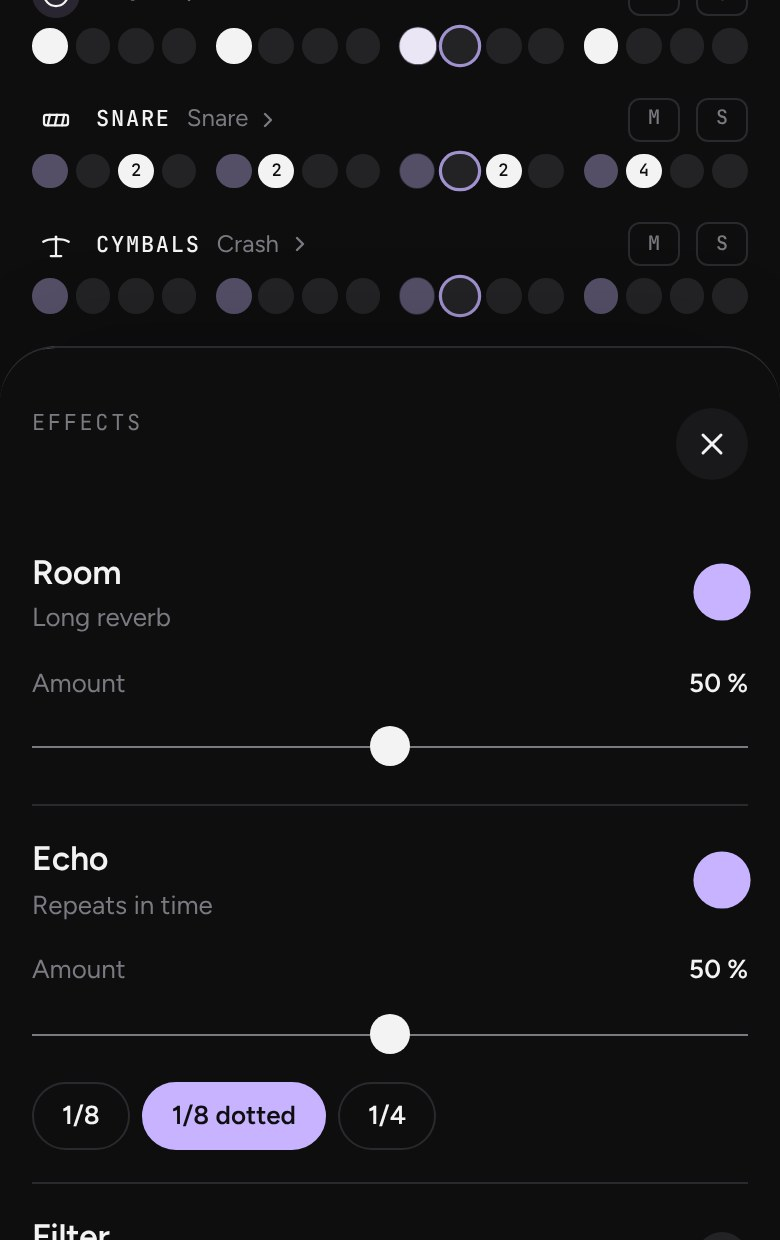
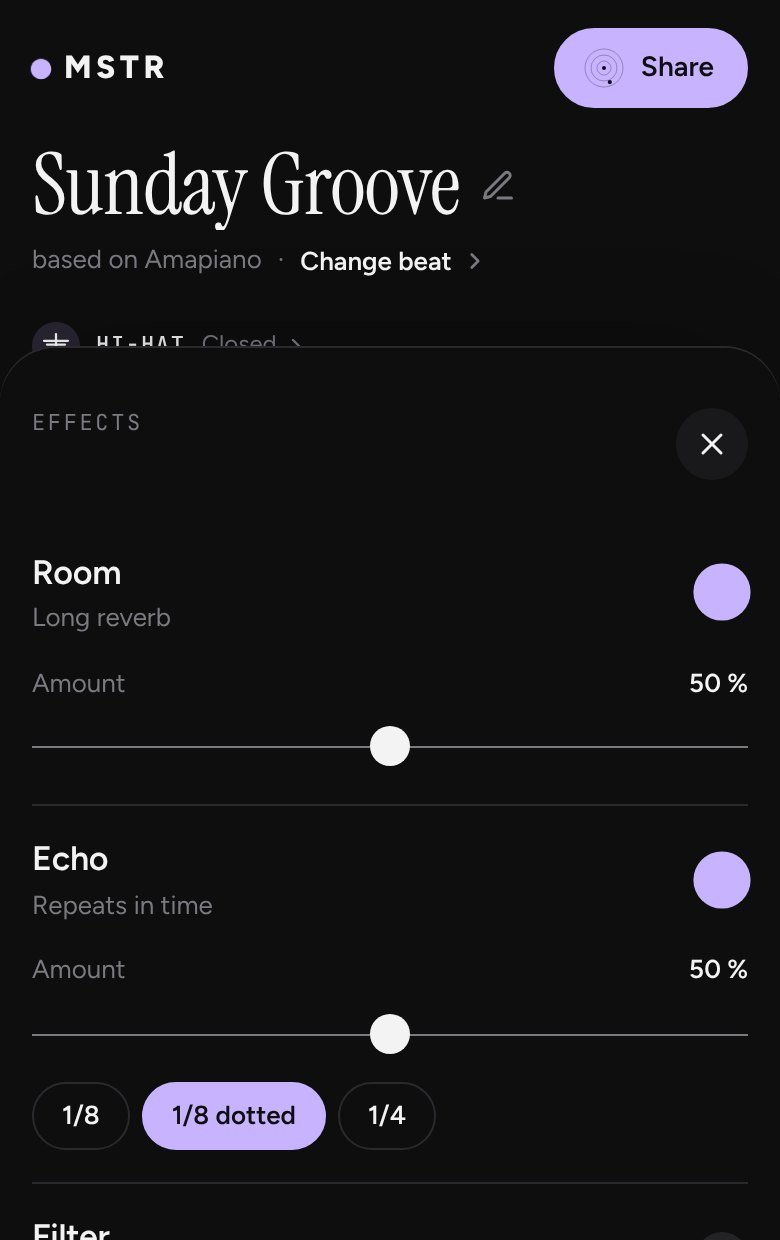
MSTR: app copy after mstr PR #30 (one Share button, leaner grid), previews re-shot
Copies the built app (Share button top right with live mini orbit, back
arrow in the Orbit, Change beat line, describe field in the beat list,
link and WAV visible in the Orbit) into mstr/app/index.html, re-shoots
vorschau-1, -2, -4 and -5 at 390x620 @2x and updates the tour copy and
alt texts.

Claude-Session: https://claude.ai/code/session_01WCtGHXdqNMZgkMLakytpzG

diff --git a/mstr/app/index.html b/mstr/app/index.html
@@ -50,25 +50,31 @@ button:focus-visible,input:focus-visible{outline:2px solid var(--accent);outline
 
 .head{display:flex;flex-direction:column;gap:4px}
 .preset{margin:0;cursor:pointer;display:flex;align-items:center;gap:10px;min-width:0;font-family:var(--f-ed);font-size:clamp(42px,11vw,60px);font-weight:400;letter-spacing:-.01em;line-height:1}
-/* Beat wählen: gefüllter runder Knopf direkt neben dem Namen (im Dunkelmodus Weiß) */
+/* Share: der einzige farbige Knopf im Kopf, beim Spielen läuft darin ein winziger Orbit mit */
+.pill.share{background:var(--accent);color:var(--on-accent);border-color:var(--accent);height:40px;padding:0 16px 0 13px;font-size:14px;gap:7px}
+.pill.share svg{width:18px;height:18px}
+#miniOrb{width:22px;height:22px;display:none}
+.app.live #miniOrb{display:block}
+.app.live .pill.share .shi{display:none}
 .prow{display:flex;align-items:center;gap:14px}
 /* Stift: zeigt, dass der Titel antippbar ist */
 .preset .pen{width:18px;height:18px;flex:none;color:var(--mute)}
 .preset #preTxt{min-width:0;overflow:hidden;text-overflow:ellipsis;white-space:nowrap}
-.ib.pick{width:44px;height:44px;background:var(--ink);color:var(--bg)}
-.ib.pick svg{width:20px;height:20px}
-/* Beat beschreiben: Sprechblase links neben der Beat-Wahl, das Feld kommt von oben */
-.prow .ib.say{width:44px;height:44px;flex:none;margin-left:-6px}
-.prow .ib.say svg{width:21px;height:21px}
+/* Textknöpfe: „Change beat“ unter dem Titel, Link und WAV im Orbit */
+.lnk{border:0;background:none;padding:4px 0;font:600 13px var(--f-ui);color:var(--ink);display:inline-flex;align-items:center;gap:5px;cursor:pointer}
+.lnk svg{width:13px;height:13px;flex:none;color:var(--mute)}
+/* Beat beschreiben: das Feld steht oben in der Beat-Liste */
 .sayf{display:flex;gap:10px;align-items:flex-end}
 .sayf textarea{flex:1;min-width:0;min-height:64px;resize:none;border-radius:14px;border:1px solid var(--line);background:var(--soft);color:var(--ink);padding:14px 16px;font-family:var(--f-ed);font-size:24px;line-height:1.15;outline:none;caret-color:var(--accent)}
 .sayf textarea:focus{border-color:var(--accent);box-shadow:0 0 0 3px color-mix(in srgb,var(--accent) 35%,transparent)}
 .sayf textarea::placeholder{color:var(--mute)}
 .sayf .ib.go{width:52px;height:52px;flex:none;background:var(--accent);color:var(--on-accent)}
 .sayf .ib.go svg{width:22px;height:22px}
-.sub:empty{display:none}
 .pill svg{width:17px;height:17px;flex:none}
-.sub{margin:0;font-size:13px;color:var(--mute)}
+.sub{margin:0;font-size:13px;color:var(--mute);display:flex;align-items:center;gap:8px;min-height:24px}
+#sub:empty{display:none}
+#sub:not(:empty)::after{content:"·";margin-left:8px}
+.shnote.left{text-align:left}
 
 /* Raster: Name-Zeile über 16 Punkten; ab 640 px Name links */
 .tracks{display:flex;flex-direction:column;gap:clamp(12px,2.6vh,24px)}
@@ -78,8 +84,6 @@ button:focus-visible,input:focus-visible{outline:2px solid var(--accent);outline
 .tn .nm{white-space:nowrap;font-family:var(--f-mono);font-size:11px;letter-spacing:.08em;text-transform:uppercase;font-weight:500}
 .tn .tb{font-size:12px;color:var(--mute);white-space:nowrap;overflow:hidden;text-overflow:ellipsis}
 .tn .go{width:12px;height:12px;color:var(--mute);flex:none;align-self:center;margin-left:-4px}
-.ms{width:26px;height:22px;border-radius:6px;border:1px solid var(--line);background:transparent;font-family:var(--f-mono);font-size:10px;font-weight:500;cursor:pointer;color:var(--mute);padding:0;flex:none}
-.ms[aria-pressed="true"]{background:var(--accent);color:var(--on-accent);border-color:var(--accent)}
 .trk.quiet .steps{opacity:.28}
 /* Die eigene Spur Aufnahme steht etwas abgesetzt unter den eingebauten */
 .trk.own{border-top:1px solid var(--line);padding-top:clamp(12px,2.6vh,24px)}
@@ -121,17 +125,14 @@ button:focus-visible,input:focus-visible{outline:2px solid var(--accent);outline
 #drop.on svg path{fill:currentColor}
 #drop.on{background:var(--accent);color:var(--on-accent);border-color:var(--accent)}
 .app.building #drop{animation:pulse .25s ease-in-out infinite alternate}
-#fxBtn{height:44px;padding:0 12px 0 10px;gap:6px;font-variant-numeric:tabular-nums}
-#share{width:44px;height:44px;padding:0;flex:none}
-#share svg{width:19px;height:19px}
-/* Schmale Handys: Platz für Teilen in der Leiste, der Pfeil am Tempo entfällt (die Zahl selbst öffnet das Blatt) */
-/* Handys: Effects und Drop nur als Symbol (Effects mit Zahl, wenn Effekte an sind), damit Teilen und Tempo Luft haben */
-@media (max-width:430px){.transport .fxl{display:none}#fxBtn,#drop{min-width:44px;padding:0 12px;justify-content:center;gap:4px}#drop{width:44px;padding:0}#fxBtn.on{padding:0 14px 0 12px}}
-@media (max-width:380px){.tempo .chev{display:none}}
+#fxBtn{height:44px;padding:0 14px 0 12px;gap:6px;font-variant-numeric:tabular-nums}
+/* Effects und Drop tragen ihr Wort; erst auf sehr schmalen Handys bleibt nur das Symbol, die Swing-Zeile fällt am Handy weg */
+@media (max-width:479px){.swt{display:none}}
+@media (max-width:399px){.transport{gap:6px}.tempo .big{font-size:36px}#fxBtn,#drop{padding:0 11px 0 10px;gap:5px}}
+@media (max-width:359px){.transport .fxl{display:none}#fxBtn,#drop{min-width:44px;padding:0 12px;justify-content:center;gap:4px}#drop{width:44px;padding:0}#fxBtn.on{padding:0 14px 0 12px}}
 #fxBtn.on{background:var(--accent);color:var(--on-accent);border-color:var(--accent)}
 .tempo{margin-left:auto;border:0;background:none;cursor:pointer;display:flex;align-items:center;gap:8px;padding:4px 0;line-height:1}
 .tv{display:flex;flex-direction:column;align-items:flex-end;gap:6px}
-.tempo .chev{width:30px;height:30px;padding:6px;border-radius:50%;background:var(--soft);color:var(--ink);flex:none}
 .big{font-weight:700;letter-spacing:-.04em;line-height:1;font-variant-numeric:tabular-nums;font-size:32px}
 .big small{font-size:.42em;color:var(--mute);font-weight:600;letter-spacing:0;margin-left:2px}
 .swt{font-family:var(--f-mono);font-size:10px;letter-spacing:.12em;text-transform:uppercase;color:var(--mute)}
@@ -218,6 +219,7 @@ input[type=range]::-moz-range-thumb{width:20px;height:20px;border-radius:50%;bac
 .fxi i{width:26px;height:26px;border-radius:50%;background:var(--off);flex:none;transition:background .15s,transform .15s}
 .fxi[aria-pressed="true"] i{background:var(--accent);transform:scale(1.1)}
 .seg2{display:grid;grid-template-columns:1fr 1fr;gap:6px}
+.seg2.three{grid-template-columns:repeat(3,1fr)}
 .seg2 button{height:42px;border-radius:999px;border:1px solid var(--line);background:transparent;font-size:13px;font-weight:600;cursor:pointer;color:var(--mute)}
 .seg2 button[aria-pressed="true"]{background:var(--accent);color:var(--on-accent);border-color:var(--accent)}
 .seg2.sm{flex:1}
@@ -273,11 +275,12 @@ input[type=range]::-moz-range-thumb{width:20px;height:20px;border-radius:50%;bac
 .mol{display:block;width:100%;flex:1 1 0;min-height:220px;border-radius:24px;cursor:pointer;touch-action:pan-y;-webkit-tap-highlight-color:transparent}
 .mol:focus-visible{outline:2px solid var(--accent);outline-offset:4px}
 .app.molecule .tracks,.app.molecule .beatrow{display:none}
-/* Umschalter oben: Grid zum Bauen, Orbit zum Zusehen und Teilen */
-.seg{display:flex;background:var(--soft);border-radius:999px;padding:3px;gap:2px}
-.seg button{height:30px;padding:0 14px;border-radius:999px;border:0;background:none;color:var(--mute);font:600 13px var(--f-ui);cursor:pointer}
-.seg button[aria-pressed="true"]{background:var(--ink);color:var(--bg)}
+/* Im Orbit: Pfeil zurück links, die Marke bleibt in der Mitte (rechts ein gleich breiter Platzhalter) */
+.app.molecule .topr{width:36px}
 .cardfoot{display:flex;gap:8px;align-items:center}
+.cardlinks{display:flex;justify-content:center;gap:26px;margin-top:-6px}
+.cardlinks .lnk{font-size:14px}
+.cardlinks .lnk svg{width:15px;height:15px}
 /* Farbwahl im Orbit: fünf Punkte, der gewählte trägt einen Ring; die Orbit-Farbe färbt dort auch den Video-Knopf */
 /* Zurückhaltend wie die App: kleine graue Punkte, nur der gewählte trägt seine Farbe; die Tipp-Fläche bleibt groß */
 .hue{display:flex;justify-content:flex-start;gap:2px;height:0;position:relative;z-index:1}
@@ -290,7 +293,6 @@ input[type=range]::-moz-range-thumb{width:20px;height:20px;border-radius:50%;bac
 .cardfoot .pill{flex:1;width:auto}
 .cardfoot .ib{width:48px;height:48px}
 .app.molecule .head{display:none}
-.app.molecule #theme{display:none}
 /* In der Karte gibt es keine Leiste: Tipp auf den Ring spielt und stoppt, Tipp auf den Titel benennt */
 .app.molecule .transport{display:none}
 /* Orbit füllt genau den sichtbaren Bereich, nichts rutscht unter die Safari-Leiste; Play und Effekte stehen in der Reihe beim Knopf */
@@ -300,8 +302,7 @@ input[type=range]::-moz-range-thumb{width:20px;height:20px;border-radius:50%;bac
 .cardfoot #fxBtn{flex:none;height:48px;min-width:48px;width:48px;padding:0;border-radius:50%;justify-content:center;gap:4px}
 .cardfoot #fxBtn .fxl{display:none}
 .cardfoot #fxBtn.on{width:auto;padding:0 14px 0 12px;border-radius:999px}
-#shCardT{min-height:2.7em;padding-bottom:max(10px,env(safe-area-inset-bottom,0px))}
-#shCardT{margin-top:-8px;line-height:1.35}
+#shCardT{min-height:2.7em;padding-bottom:max(10px,env(safe-area-inset-bottom,0px));margin-top:-10px;line-height:1.35}
 /* Video entsteht: der Knopf füllt sich von links mit dem Fortschritt (--p 0..1) */
 .pill.go.gen,.pill.go.gen:disabled{opacity:1;color:var(--ink);border-color:transparent;background:linear-gradient(90deg,color-mix(in srgb,var(--accent) 60%,var(--bg)) calc(var(--p,0) * 100%),color-mix(in srgb,var(--accent) 18%,var(--bg)) calc(var(--p,0) * 100%));transition:background .2s linear}
 </style>
@@ -309,27 +310,26 @@ input[type=range]::-moz-range-thumb{width:20px;height:20px;border-radius:50%;bac
 <body>
 <div class="app" id="app">
   <header class="top">
+    <button type="button" class="ib" id="vGrid" hidden aria-label="Back to the grid"><svg viewBox="0 0 24 24" aria-hidden="true"><path d="M15 5l-7 7 7 7" fill="none" stroke="currentColor" stroke-width="2.2" stroke-linecap="round" stroke-linejoin="round"/></svg></button>
     <span class="mark"><i aria-hidden="true"></i>MSTR</span>
-    <div class="topr">
-      <div class="seg" id="view" role="group" aria-label="View"><button type="button" id="vGrid" aria-pressed="true">Grid</button><button type="button" id="vCard" aria-pressed="false">Orbit</button></div>
-      <button type="button" class="ib" id="theme" aria-label="Theme"><svg viewBox="0 0 24 24" aria-hidden="true"><circle cx="12" cy="12" r="8" fill="none" stroke="currentColor" stroke-width="2"/><path d="M12 4a8 8 0 0 1 0 16z" fill="currentColor"/></svg></button>
-    </div>
+    <div class="topr"><button type="button" class="pill share" id="vCard" aria-label="Share: your beat as an orbit, video and link"><canvas id="miniOrb" width="44" height="44" aria-hidden="true"></canvas><svg class="shi" viewBox="0 0 24 24" aria-hidden="true"><path d="M12 15V4M8 8l4-4 4 4M5 13v6h14v-6" fill="none" stroke="currentColor" stroke-width="2.2" stroke-linecap="round" stroke-linejoin="round"/></svg><span>Share</span></button></div>
   </header>
   <div class="head">
-    <div class="prow"><h1 class="preset" id="preName" title="Name your beat"><span id="preTxt">Amapiano</span><svg class="pen" viewBox="0 0 24 24" aria-hidden="true"><path d="M12 20h9M16.5 3.5a2.1 2.1 0 0 1 3 3L7 19l-4 1 1-4Z" fill="none" stroke="currentColor" stroke-width="2" stroke-linecap="round" stroke-linejoin="round"/></svg></h1><button type="button" class="ib pick" id="preBtn" aria-haspopup="dialog" aria-label="Choose beat" title="Choose beat"><svg viewBox="0 0 24 24" aria-hidden="true"><path d="M4 7h16M4 12h16M4 17h10" fill="none" stroke="currentColor" stroke-width="2.2" stroke-linecap="round"/></svg></button><button type="button" class="ib say" id="sayBtn" aria-haspopup="dialog" aria-label="Describe a beat" title="Describe a beat"><svg viewBox="0 0 24 24" aria-hidden="true"><path d="M5 5h14a1.5 1.5 0 0 1 1.5 1.5v9A1.5 1.5 0 0 1 19 17h-8l-4.5 3.5V17H5a1.5 1.5 0 0 1-1.5-1.5v-9A1.5 1.5 0 0 1 5 5Z" fill="none" stroke="currentColor" stroke-width="2" stroke-linejoin="round"/><path d="M8 9.5h8M8 12.8h5" fill="none" stroke="currentColor" stroke-width="2" stroke-linecap="round"/></svg></button></div>
-    <p class="sub" id="sub"></p>
+    <div class="prow"><h1 class="preset" id="preName" title="Name your beat"><span id="preTxt">Amapiano</span><svg class="pen" viewBox="0 0 24 24" aria-hidden="true"><path d="M12 20h9M16.5 3.5a2.1 2.1 0 0 1 3 3L7 19l-4 1 1-4Z" fill="none" stroke="currentColor" stroke-width="2" stroke-linecap="round" stroke-linejoin="round"/></svg></h1></div>
+    <p class="sub"><span id="sub"></span><button type="button" class="lnk" id="preBtn" aria-haspopup="dialog">Change beat<svg viewBox="0 0 24 24" aria-hidden="true"><path d="M9 6l6 6-6 6" fill="none" stroke="currentColor" stroke-width="2.4" stroke-linecap="round" stroke-linejoin="round"/></svg></button></p>
   </div>
   <main class="tracks" id="tracks" aria-label="Tracks"></main>
   <canvas class="mol" id="mol" hidden aria-label="Your beat as an orbit. Tap the ring to play or stop, tap the title to name it, swipe sideways to change the colour" role="button" tabindex="0"></canvas>
   <div class="hue" id="hue" hidden role="radiogroup" aria-label="Orbit colour"></div>
-  <div class="cardfoot" id="cardfoot" hidden><button type="button" class="pill wide go" id="shCardBtn">Share video</button><button type="button" class="ib" id="more" aria-haspopup="dialog" aria-label="Link and WAV loop" title="Link and WAV loop"><svg viewBox="0 0 24 24" aria-hidden="true"><circle cx="5" cy="12" r="2" fill="currentColor"/><circle cx="12" cy="12" r="2" fill="currentColor"/><circle cx="19" cy="12" r="2" fill="currentColor"/></svg></button></div>
+  <div class="cardfoot" id="cardfoot" hidden><button type="button" class="pill wide go" id="shCardBtn">Share video</button></div>
+  <div class="cardlinks" id="cardlinks" hidden><button type="button" class="lnk" id="shSend"><svg viewBox="0 0 24 24" aria-hidden="true"><path d="M10 14a4 4 0 0 0 5.7 0l3-3a4 4 0 0 0-5.7-5.7l-1 1M14 10a4 4 0 0 0-5.7 0l-3 3a4 4 0 0 0 5.7 5.7l1-1" fill="none" stroke="currentColor" stroke-width="2" stroke-linecap="round"/></svg><span>Copy link</span></button><button type="button" class="lnk" id="shWav"><svg viewBox="0 0 24 24" aria-hidden="true"><path d="M12 4v11M8 11l4 4 4-4M5 19h14" fill="none" stroke="currentColor" stroke-width="2" stroke-linecap="round" stroke-linejoin="round"/></svg><span>Download WAV</span></button></div>
   <p class="shnote" id="shCardT" hidden></p>
   <div class="trk beatrow" aria-hidden="true"><div class="tl"></div><div class="steps"><div class="grp"><span>1</span><span></span><span></span><span></span></div><div class="grp"><span>2</span><span></span><span></span><span></span></div><div class="grp"><span>3</span><span></span><span></span><span></span></div><div class="grp"><span>4</span><span></span><span></span><span></span></div></div></div>
   <footer class="transport">
     <button type="button" class="play" id="play" aria-label="Play (Space)"></button>
     <button type="button" class="pill" id="fxBtn" aria-haspopup="dialog" aria-label="Effects"><svg viewBox="0 0 24 24" aria-hidden="true"><path d="M4 7h9M17 7h3M4 17h3M11 17h9" fill="none" stroke="currentColor" stroke-width="2" stroke-linecap="round"/><circle cx="15" cy="7" r="2.2" fill="none" stroke="currentColor" stroke-width="2"/><circle cx="9" cy="17" r="2.2" fill="none" stroke="currentColor" stroke-width="2"/></svg><span class="fxl">Effects</span><span class="fxn" id="fxN"></span></button>
     <button type="button" class="pill" id="drop" aria-label="Drop"><svg viewBox="0 0 24 24" aria-hidden="true"><path d="M13.5 2.5L5 13.5h6l-1.5 8 8.5-11h-6z" fill="none" stroke="currentColor" stroke-width="2" stroke-linejoin="round"/></svg><span class="fxl">Drop</span></button>
-    <button type="button" class="tempo" id="tempoBtn" aria-haspopup="dialog" aria-label="Tempo and swing"><span class="tv"><span class="swt" id="swTxt">Swing 0 %</span><span class="big"><span id="bpm">100</span><small>bpm</small></span></span><svg class="chev" viewBox="0 0 24 24" aria-hidden="true"><path d="M6 15l6-6 6 6" fill="none" stroke="currentColor" stroke-width="2.2" stroke-linecap="round" stroke-linejoin="round"/></svg></button>
+    <button type="button" class="tempo" id="tempoBtn" aria-haspopup="dialog" aria-label="Tempo and swing"><span class="tv"><span class="swt" id="swTxt">Swing 0 %</span><span class="big"><span id="bpm">100</span><small>bpm</small></span></span></button>
   </footer>
 </div>
 <section class="sheet" id="sheet" aria-labelledby="sheetT" hidden></section>
@@ -1153,9 +1153,6 @@ var WORTE=(function(){
       tn.setAttribute('aria-label',T.n+': Einstellungen');
       tn.addEventListener('click',function(){trackSheet(r);});
       tl.appendChild(tn);
-      ['M','S'].forEach(function(k){var b=document.createElement('button');b.type='button';b.className='ms '+k.toLowerCase();b.textContent=k;
-        b.setAttribute('aria-label',(k==='M'?'Mute: ':'Solo: ')+T.n);
-        b.addEventListener('click',function(){if(k==='M')mute[r]=!mute[r];else solo[r]=!solo[r];paint();persist();});tl.appendChild(b);});
       row.appendChild(tl);
       var steps=document.createElement('div');steps.className='steps';cells.push([]);
       for(var g=0;g<4;g++){var grp=document.createElement('div');grp.className='grp';
@@ -1218,8 +1215,6 @@ var WORTE=(function(){
         b.classList.toggle('on',on);b.setAttribute('aria-pressed',on?'true':'false');
         b.textContent=on&&multi&&(T.id==='click'||k>0)?(T.id==='click'?w:String(k+1)):'';}
       rows[r].classList.toggle('quiet',!audible(r));
-      rows[r].querySelector('.ms.m').setAttribute('aria-pressed',mute[r]?'true':'false');
-      rows[r].querySelector('.ms.s').setAttribute('aria-pressed',solo[r]?'true':'false');
       rows[r].querySelector('.tb').textContent=r===MIC&&!REC.mic?'Record your own sound':multi?T.s[sndIx(r,brush[r])][1]:'';
     }
     app.classList.toggle('solo',so);
@@ -1235,12 +1230,21 @@ var WORTE=(function(){
   function head(s,b){
     var r;
     if(shown>=0)for(r=0;r<R;r++)cells[r][shown].classList.remove('ph');
-    shown=s;if(s>=0)molHit(s,b);
+    shown=s;if(s>=0){molHit(s,b);miniDraw(s);}
     if(s>=0)for(r=0;r<R;r++){cells[r][s].classList.add('ph');if(pat[r].charAt(s)!=='0'&&audible(r)&&!drop)flash(r);}
     /* Taktzähler und Fortschrittslinie folgen dem laufenden Schritt */
     for(r=0;r<beats.length;r++)beats[r].classList.toggle('cur',s>=0&&r===Math.floor(s/4));
     app.style.setProperty('--prog',s<0?0:(s+1)/N);
   }
+  /* Winziger Orbit im Share-Knopf: läuft beim Spielen mit (je Schritt ein Bild), zeigt, wohin der Beat am Ende geht */
+  var mo=$('miniOrb'),mx=mo.getContext('2d');
+  function miniDraw(s){var W=mo.width,c=W/2,r,k;mx.clearRect(0,0,W,W);
+    mx.strokeStyle='rgba(15,15,16,.28)';mx.lineWidth=1;
+    for(k=0;k<3;k++){mx.beginPath();mx.arc(c,c,7+k*6,0,Math.PI*2);mx.stroke();}
+    mx.fillStyle='#0F0F10';
+    for(r=0;r<7;r++){if(pat[r].charAt(s)==='0'||!audible(r))continue;var a=s/N*Math.PI*2-Math.PI/2,rad=6+r*2.3,d=r===1?3:2.1;
+      mx.beginPath();mx.arc(c+Math.cos(a)*rad,c+Math.sin(a)*rad,d,0,Math.PI*2);mx.fill();}
+    mx.beginPath();mx.arc(c,c,2,0,Math.PI*2);mx.fill();}
   /* Das Spur-Icon blinkt kurz in Flieder, wenn die Spur klingt */
   function flash(r){var ic=rows[r].querySelector('.ic');ic.classList.remove('hit');void ic.offsetWidth;ic.classList.add('hit');clearTimeout(ic._t);ic._t=setTimeout(function(){ic.classList.remove('hit');},140);}
   function loop(){
@@ -1360,7 +1364,20 @@ var WORTE=(function(){
   var X='',XB='<button type="button" class="ib" data-close aria-label="Close"><svg viewBox="0 0 24 24" aria-hidden="true"><path d="M6 6l12 12M18 6L6 18" fill="none" stroke="currentColor" stroke-width="2" stroke-linecap="round"/></svg></button>';
   function presetSheet(){
     var order=BEATS.map(function(b,i){return i;}).sort(function(a,b){return BEATS[a].bpm-BEATS[b].bpm||a-b;});
-    openSheet('<div class="sh-top"><h2 class="ed" id="sheetT">'+BEATS.length+' beats<br><em>by tempo</em></h2>'+X+'</div><div class="plist" role="listbox" aria-label="Beats"></div><a class="lab" href="https://asimplemanslab.com/" aria-label="Made with love by A Simple Man\u2019s Lab"><span>Made with love by</span><i aria-hidden="true"></i></a>',function(el){
+    openSheet('<div class="sh-top"><span class="eyebrow" id="sheetT">Describe a beat</span></div>'+
+      '<form class="sayf" autocomplete="off"><textarea id="sayIn" rows="2" maxlength="200" enterkeyhint="send" aria-labelledby="sheetT"></textarea>'+
+      '<button type="submit" class="ib go" id="sayGo" aria-label="Make the beat" title="Make the beat"><svg viewBox="0 0 24 24" aria-hidden="true"><path d="M5 12h13M13 6l6 6-6 6" fill="none" stroke="currentColor" stroke-width="2.2" stroke-linecap="round" stroke-linejoin="round"/></svg></button></form>'+
+      '<p class="shnote left">Style, mood, tempo, sounds, effects. In your own words, English or German.</p>'+
+      '<h2 class="ed">or pick one<br><em>'+BEATS.length+' beats by tempo</em></h2><div class="plist" role="listbox" aria-label="Beats"></div>'+
+      '<div class="field"><span class="lbl">Theme</span><div class="seg2 three" id="themeSeg"><button type="button" data-t="system">System</button><button type="button" data-t="light">Light</button><button type="button" data-t="dark">Dark</button></div></div>'+
+      '<a class="lab" href="https://asimplemanslab.com/" aria-label="Made with love by A Simple Man\u2019s Lab"><span>Made with love by</span><i aria-hidden="true"></i></a>',function(el){
+      var inp=el.querySelector('#sayIn'),f=el.querySelector('form');
+      inp.value=typeof S.say==='string'?S.say:'';inp.placeholder=SAY[Math.floor(Math.random()*SAY.length)];
+      function go(){var v=inp.value.trim()||inp.placeholder;S.say=inp.value.trim();save();closeSheet();sayBeat(v);}
+      f.addEventListener('submit',function(e){e.preventDefault();go();});
+      inp.addEventListener('keydown',function(e){if(e.key==='Enter'&&!e.shiftKey){e.preventDefault();go();}});
+      el.querySelectorAll('#themeSeg button').forEach(function(b){b.addEventListener('click',function(){S.theme=b.dataset.t;save();themeUI();});});
+      themeUI();
       var list=el.querySelector('.plist'),e=document.createElement('button');e.type='button';e.id='clr';e.className='pitem'+(pre<0&&pat.slice(0,7).join('')===empty().slice(0,7).join('')?' sel':'');e.setAttribute('role','option');
       e.innerHTML='<span class="n">Empty grid</span><span class="v">'+bpm+'<small>BPM</small></span>';e.addEventListener('click',function(){clearAll();closeSheet();});list.appendChild(e);
       order.forEach(function(i){var Bt=BEATS[i],b=document.createElement('button');b.type='button';b.className='pitem'+(i===pre?' sel':'');b.setAttribute('role','option');b.setAttribute('aria-selected',i===pre?'true':'false');
@@ -1387,19 +1404,6 @@ var WORTE=(function(){
     showToast('New beat','Undo',function(){restore(before);});
     return true;
   }
-  function saySheet(){
-    openSheet('<div class="sh-top"><span class="eyebrow" id="sheetT">Describe a beat</span>'+XB+'</div>'+
-      '<form class="sayf" autocomplete="off"><textarea id="sayIn" rows="2" maxlength="200" enterkeyhint="send" aria-labelledby="sheetT" data-focus></textarea>'+
-      '<button type="submit" class="ib go" id="sayGo" aria-label="Make the beat" title="Make the beat"><svg viewBox="0 0 24 24" aria-hidden="true"><path d="M5 12h13M13 6l6 6-6 6" fill="none" stroke="currentColor" stroke-width="2.2" stroke-linecap="round" stroke-linejoin="round"/></svg></button></form>'+
-      '<p class="shnote">Style, mood, tempo, sounds, effects. In your own words.</p>',function(el){
-      var inp=el.querySelector('#sayIn'),f=el.querySelector('form');
-      inp.value=typeof S.say==='string'?S.say:'';inp.placeholder=SAY[Math.floor(Math.random()*SAY.length)];
-      function go(){var v=inp.value.trim()||inp.placeholder;S.say=inp.value.trim();save();closeSheet();sayBeat(v);}
-      f.addEventListener('submit',function(e){e.preventDefault();go();});
-      inp.addEventListener('keydown',function(e){if(e.key==='Enter'&&!e.shiftKey){e.preventDefault();go();}});
-    },'beschreiben','top');
-  }
-  $('sayBtn').addEventListener('click',saySheet);
 $('preName').addEventListener('click',function(){nameSheet();});
 
   function tempoSheet(){
@@ -1619,8 +1623,8 @@ $('preName').addEventListener('click',function(){nameSheet();});
   function fileName(){return baseName()+'-'+bpm+'bpm.wav';}
   function canSendFile(f){try{return !!(navigator.canShare&&navigator.share&&navigator.canShare({files:[f]}));}catch(e){return false;}}
   function saveFile(f){var u=URL.createObjectURL(f),a=document.createElement('a');a.href=u;a.download=f.name;document.body.appendChild(a);a.click();a.remove();setTimeout(function(){URL.revokeObjectURL(u);},4000);}
-  /* Teilen in drei Stücken: Name und „By“ im Namens-Blatt (Titel antippen; der Würfel schlägt einen Titel aus dem Beat vor),
-     „Share“ in der Karten-Ansicht macht das Video, „⋯“ daneben hat Link und WAV-Loop */
+  /* Teilen: Name und „By“ im Namens-Blatt (Titel antippen; der Würfel schlägt einen Titel aus dem Beat vor),
+     „Share video“ im Orbit macht das Video, darunter stehen Link und WAV-Loop */
   var handle=typeof S.by==='string'?S.by.slice(0,24):'';
   /* Karte: die eingeschalteten Effekte wandern mit ins Bild (Stärke 0–1 und Auswahl), GLASS ist die Durchsichtigkeit der Atome */
   var GLASS=0;
@@ -1651,35 +1655,30 @@ $('preName').addEventListener('click',function(){nameSheet();});
       by.addEventListener('keydown',function(e){if(e.key==='Enter'){e.preventDefault();closeSheet();}});
     },'name','top');
   }
-  function moreSheet(){
-    var own=pat[MIC]&&pat[MIC]!==zero(),mob=nativeShare();
-    openSheet('<div class="sh-top"><span class="eyebrow" id="sheetT">Link and loop</span>'+XB+'</div>'+
-      '<button type="button" class="pill wide" id="shSend">'+(mob?'Send link':'Copy link')+'</button>'+
-      '<p class="shnote" id="shSendT">'+(mob?'':'Paste it into a chat or mail. ')+'Opens your beat on asimplemanslab.com/mstr'+(own?'. Your recording stays on this device.':'.')+'</p>'+
-      '<button type="button" class="pill wide" id="shWav"><svg viewBox="0 0 24 24" aria-hidden="true"><path d="M12 4v11M8 11l4 4 4-4M5 19h14" fill="none" stroke="currentColor" stroke-width="2" stroke-linecap="round" stroke-linejoin="round"/></svg><span>Download WAV</span></button>'+
-      '<p class="shnote" id="shWavT">'+BARS+' bars that loop seamlessly, for sampling'+(own?', with your recording':'')+'</p>',function(el){
-      var sb=el.querySelector('#shSend'),sbT=0;
-      sb.addEventListener('click',function(){shareBeat(function(){
-        sb.textContent='✓ Link copied';clearTimeout(sbT);sbT=setTimeout(function(){sb.textContent='Copy link';},2500);});});
-      /* Download: am Handy übers Teilen-Menü (dort „In Dateien sichern“), sonst direkt. Lässt der Browser das Teilen
-         nach dem Rechnen nicht mehr zu, braucht es einen zweiten Tipp */
-      var wb=el.querySelector('#shWav'),wt=el.querySelector('#shWavT'),file=null,busy=false;
-      function give(f){
-        if(navigator.share&&matchMedia('(pointer: coarse)').matches&&canSendFile(f)){
-          navigator.share({files:[f],title:f.name}).catch(function(e){if(e&&e.name==='NotAllowedError'){wb.querySelector('span').textContent='Save '+f.name;wb.classList.add('go');}});return;}
-        saveFile(f);wt.textContent='Saved '+f.name;
-      }
-      wb.addEventListener('click',function(){
-        if(busy)return;
-        if(file&&file.name===fileName())return give(file);
-        busy=true;wt.textContent='Rendering …';
-        renderLoop(function(blob){busy=false;
-          if(!blob){wt.textContent='That did not work in this browser.';return;}
-          file=new File([blob],fileName(),{type:'audio/wav'});wt.textContent=file.name+', '+(Math.round(BARS*N*st()*10)/10)+' s';give(file);});
-      });
-    },'mehr',true);
-  }
-  $('more').addEventListener('click',moreSheet);
+  /* Link und WAV-Loop stehen im Orbit als Textzeile unter dem Video-Knopf; die Hinweiszeile darunter antwortet */
+  (function(){
+    var sb=$('shSend'),sbT=0,wb=$('shWav'),wl=wb.querySelector('span'),file=null,busy=false;
+    function sendLabel(){sb.querySelector('span').textContent=nativeShare()?'Send link':'Copy link';}
+    sendLabel();window.addEventListener('resize',sendLabel);
+    sb.addEventListener('click',function(){shareBeat(function(){
+      var own=pat[MIC]&&pat[MIC]!==zero();cardNote('Link copied. Paste it into a chat or mail, it opens your beat on asimplemanslab.com/mstr.'+(own?' Your recording stays on this device.':''));
+      sb.querySelector('span').textContent='\u2713 Link copied';clearTimeout(sbT);sbT=setTimeout(function(){sendLabel();},2500);});});
+    /* Download: am Handy übers Teilen-Menü (dort „In Dateien sichern“), sonst direkt. Lässt der Browser das Teilen
+       nach dem Rechnen nicht mehr zu, braucht es einen zweiten Tipp */
+    function give(f){
+      if(navigator.share&&matchMedia('(pointer: coarse)').matches&&canSendFile(f)){
+        navigator.share({files:[f],title:f.name}).catch(function(e){if(e&&e.name==='NotAllowedError'){wl.textContent='Save '+f.name;}});return;}
+      saveFile(f);cardNote('Saved '+f.name+': '+BARS+' bars that loop seamlessly, for sampling'+(pat[MIC]&&pat[MIC]!==zero()?', with your recording':'')+'.');
+    }
+    wb.addEventListener('click',function(){
+      if(busy)return;
+      if(file&&file.name===fileName())return give(file);
+      busy=true;cardNote('Rendering '+BARS+' bars …');
+      renderLoop(function(blob){busy=false;
+        if(!blob){cardNote('That did not work in this browser.');return;}
+        file=new File([blob],fileName(),{type:'audio/wav'});give(file);});
+    });
+  })();
   /* „Share“ in der Karten-Ansicht: Ton offline rechnen, Video in Echtzeit aufnehmen (die Karten-Ansicht zeigt derweil die Aufnahme),
      dann teilen (Handy) oder sichern (Rechner). Ohne Video gibt es ein Bild. Dieselbe Datei wird beim zweiten Tipp sofort gegeben */
   var cb=$('shCardBtn'),ct=$('shCardT'),cardT=null,cfile=null,ckey='',busyC=false,cardGen=0,video=CARD.canVideo();
@@ -1687,7 +1686,7 @@ $('preName').addEventListener('click',function(){nameSheet();});
   /* Der Knopf heißt von Anfang an „Share video“ (Rechner: „Save video“), während der Erstellung „Generating · 12 s“ mit Füllstand;
      die Zeile darunter erklärt jeden Schritt (erst entsteht das Video, dann öffnet sich das Teilen-Menü). Ändert sich der Beat, fängt es von vorn an */
   function cardKey(){var o=cardOpts();return shareCode()+'|'+o.title+'|'+o.by;}
-  function cardNote(t){ct.textContent=t;ct.hidden=!t;}
+  function cardNote(t){ct.textContent=t;ct.hidden=!t||!molOn;}
   function cardLabel(){if(busyC)return;cb.classList.remove('gen');cb.style.removeProperty('--p');var ready=cfile&&ckey===cardKey(),mob=nativeShare(),secs=Math.round(CARD.clipLen(bpm));
     cb.textContent=video?(mob?'Share video':'Save video'):(mob?'Share image':'Save image');
     if(!video){cardNote(ready?'Ready. Tap to share it again.':'A picture of your orbit for Story and chats.');return;}
@@ -1702,7 +1701,7 @@ $('preName').addEventListener('click',function(){nameSheet();});
         if(e&&e.name==='AbortError')return;
         if(e&&e.name==='NotAllowedError'){cardNote('Tap Share video once more to open the share sheet.');return;}
         saveFile(f);cardNote('Sharing did not work here, saved '+f.name+' instead.');});return;}
-    saveFile(f);cardNote('Saved '+f.name+'. Add the link from ⋯ so friends can open the beat.');
+    saveFile(f);cardNote('Saved '+f.name+'. Copy the link too, so friends can open the beat.');
   }
   /* Abbruch: auch während der Ton noch gerechnet wird (dann verfällt das Ergebnis) */
   function cardStop(){cardGen++;if(cardT){cardT();cardT=null;}if(busyC){busyC=false;cb.disabled=false;cardLabel();}}
@@ -1714,7 +1713,7 @@ $('preName').addEventListener('click',function(){nameSheet();});
     renderClip(function(buf){
       if(gen!==cardGen)return;
       if(!buf){busyC=false;cb.disabled=false;cardLabel();cardNote('That did not work in this browser.');return;}
-      o.mirror=molC;o.mirrorBg=molDark()?'#0E0E0F':'#FFFFFF';cb.classList.add('gen');cardNote('Generating the video with sound. Keep this screen open until it is done, Grid cancels.');
+      o.mirror=molC;o.mirrorBg=molDark()?'#0E0E0F':'#FFFFFF';cb.classList.add('gen');cardNote('Generating the video with sound. Keep this screen open until it is done, the arrow cancels.');
       cardT=CARD.record(ac,buf,scene,o,function(t,tot){cb.style.setProperty('--p',Math.min(1,t/tot));cb.textContent='Generating · '+Math.ceil(tot-t)+' s';},function(f,why){
         busyC=false;cb.disabled=false;cardT=null;
         if(why==='abort'){cardLabel();return;}
@@ -1733,8 +1732,8 @@ $('preName').addEventListener('click',function(){nameSheet();});
 
   /* ---------- Farbschema ---------- */
   var TN={system:'system',light:'light',dark:'dark'};
-  function themeUI(){var t=applyTheme();if(molOn)forceDark();$('theme').setAttribute('aria-label','Theme: '+TN[t]);$('theme').title='Theme: '+TN[t];}
-  $('theme').addEventListener('click',function(){var t=THEMES.indexOf(S.theme);S.theme=THEMES[(t<0?1:t+1)%3];save();themeUI();});
+  /* Das Farbschema wohnt am Ende der Beat-Liste (drei Schalter), nicht mehr im Kopf der Seite */
+  function themeUI(){var t=applyTheme();if(molOn)forceDark();var sg=$('themeSeg');if(sg)[].forEach.call(sg.children,function(b){b.setAttribute('aria-pressed',b.dataset.t===t?'true':'false');});}
   if(window.matchMedia)try{matchMedia('(prefers-color-scheme: dark)').addEventListener('change',themeUI);}catch(e){}
 
   build();themeUI();fxUI();playB.innerHTML=I_PLAY;
@@ -1767,9 +1766,9 @@ $('preName').addEventListener('click',function(){nameSheet();});
     molS.fire({s:q,b:b,h:h,st:stu?1:0},performance.now());
     if(stu)setTimeout(function(){if(molOn&&playing)molS.fire({s:q,b:b,h:h,st:1},performance.now());},st()*500);}
   var transport=document.querySelector('.transport');
-  function molSet(on){molOn=!!on;if(!molOn)cardStop();app.classList.toggle('molecule',molOn);molC.hidden=!molOn;foot.hidden=!molOn;hueRow.hidden=!molOn;
+  var links=$('cardlinks');
+  function molSet(on){molOn=!!on;if(!molOn)cardStop();app.classList.toggle('molecule',molOn);molC.hidden=!molOn;foot.hidden=!molOn;hueRow.hidden=!molOn;links.hidden=!molOn;vGrid.hidden=!molOn;vCard.hidden=molOn;
     if(molOn){foot.insertBefore(playB,cb);foot.insertBefore(fxB,cb);cardLabel();forceDark();}else{transport.insertBefore(playB,transport.firstChild);transport.insertBefore(fxB,dropB);ct.hidden=true;themeUI();}
-    vGrid.setAttribute('aria-pressed',molOn?'false':'true');vCard.setAttribute('aria-pressed',molOn?'true':'false');
     S.view=molOn?'mol':'';save();if(molOn){molModel();molSize();molGo();}}
   vGrid.addEventListener('click',function(){molSet(false);});vCard.addEventListener('click',function(){molSet(true);});
   /* Unterer Streifen (Titel und Zeile) öffnet den Namen, der Rest spielt oder stoppt */

diff --git a/mstr/index.html b/mstr/index.html
@@ -104,16 +104,16 @@ details a,.ask a{color:var(--accent-text);font-weight:700}
 <p>Build beats in your browser. Eight tracks, sixteen steps, six effects, plus your own sound from the mic.</p>
 </header>
 <section class="tour" aria-label="How it works">
-  <div class="phone"><img id="ph" src="vorschau-2.jpg" alt="List of templates sorted by tempo, from One Drop to Amapiano" width="390" height="620"></div>
+  <div class="phone"><img id="ph" src="vorschau-2.jpg" alt="The beat list: a field to describe a beat in words on top, then 16 templates sorted by tempo" width="390" height="620"></div>
   <div>
    <ol class="steps" role="tablist" aria-label="Steps">
-    <li><button type="button" role="tab" aria-selected="true" data-img="vorschau-2.jpg" data-alt="List of templates sorted by tempo, from One Drop to Amapiano"><b>1</b><strong>Start</strong><span>16 templates to start from, or begin with an empty grid.</span></button></li>
-    <li><button type="button" role="tab" aria-selected="false" data-img="vorschau-1.jpg" data-alt="The grid playing the Amapiano template, Grid | Orbit switch at the top, Play, Effects, Drop and Tempo at the bottom"><b>2</b><strong>Build</strong><span>Tap steps, long-press for a different sound, set tempo and swing.</span></button></li>
+    <li><button type="button" role="tab" aria-selected="true" data-img="vorschau-2.jpg" data-alt="The beat list: a field to describe a beat in words on top, then 16 templates sorted by tempo"><b>1</b><strong>Start</strong><span>Describe a beat in words, pick one of 16 templates, or begin with an empty grid.</span></button></li>
+    <li><button type="button" role="tab" aria-selected="false" data-img="vorschau-1.jpg" data-alt="The grid playing Sunday Groove, a lilac Share button with a tiny spinning orbit at the top, Play, Effects, Drop and Tempo at the bottom"><b>2</b><strong>Build</strong><span>Tap steps, long-press for a different sound, set tempo and swing.</span></button></li>
     <li><button type="button" role="tab" aria-selected="false" data-img="vorschau-4.jpg" data-alt="The Room and Echo effects switched on, with sliders"><b>3</b><strong>Effects</strong><span>Switch on six effects and hit the drop.</span></button></li>
     <li><button type="button" role="tab" aria-selected="false" data-img="vorschau-3.jpg" data-alt="The Mic track with the record button"><b>4</b><strong>Mic</strong><span>Record your own sound on the Mic track.</span></button></li>
-    <li><button type="button" role="tab" aria-selected="false" data-img="vorschau-5.jpg" data-alt="The Orbit view: the molecule spins to the beat Sunday Groove by @mark, with five colour dots above the title, Play, Effects, Share video and the menu for link and WAV below"><b>5</b><strong>Share</strong><span>In Orbit your beat spins as a molecule in one of five colours. Share it as a video with the link to your beat, or send a WAV loop.</span></button></li>
+    <li><button type="button" role="tab" aria-selected="false" data-img="vorschau-5.jpg" data-alt="The Orbit: the molecule spins to the beat Sunday Groove by @mark, with five colour dots above the title, Play, Effects and Save video below, then Copy link and Download WAV"><b>5</b><strong>Share</strong><span>Tap Share: your beat spins as a molecule in one of five colours. Save it as a video with the link to your beat, copy the link, or download a WAV loop.</span></button></li>
    </ol>
-   <p class="cap" id="cap">16 templates to start from, or begin with an empty grid.</p>
+   <p class="cap" id="cap">Describe a beat in words, pick one of 16 templates, or begin with an empty grid.</p>
   </div>
 </section>
 <h2>Good to know</h2>
